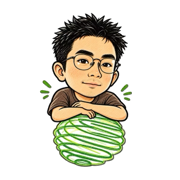
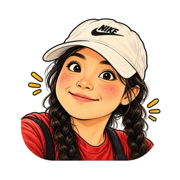
更换 app 图标
新插画内容占画面 89%×91% 且居中，仍按 88% 缩放后居中放到白底，
给 iOS 圆角遮罩留出余量；JPEG 的灰白噪点洗成纯白避免拼接接缝；
PNG 逐行自适应滤波编码。

图标在 SW 的 ASSETS 里，缓存版本 v8 -> v9 强制刷新。
APP_VERSION 1.3.1。

diff --git a/index.html b/index.html
@@ -527,7 +527,7 @@ const INTERVALS  = [1, 2, 4, 7, 15, 30];   // 天，从整组背完当天起算
 const DAILY_CAP  = 5;                       // 每日复习配额（组）
 const DAY_START  = 4;                       // 凌晨 4:00 为一天分界
 const BACKUP_WARN_DAYS = 7;
-const APP_VERSION = "1.3.0";
+const APP_VERSION = "1.3.1";
 
 /* ---------------------------------------------------------------- utils */
 const $ = s => document.querySelector(s);

diff --git a/sw.js b/sw.js
@@ -1,7 +1,7 @@
 /* 背单词 · Service Worker
    策略：stale-while-revalidate —— 打开即用缓存（离线可用），
    同时后台拉新版本写回缓存，下次打开生效。 */
-const CACHE = "vocab-shell-v8";
+const CACHE = "vocab-shell-v9";
 const ASSETS = ["./", "./index.html", "./manifest.webmanifest", "./icon-180.png", "./icon-512.png"];
 
 self.addEventListener("install", e => {
